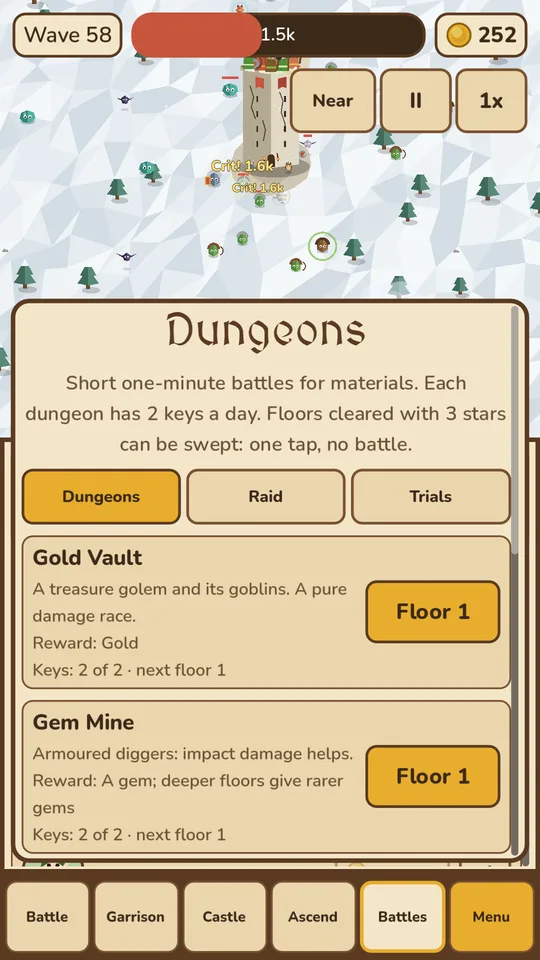
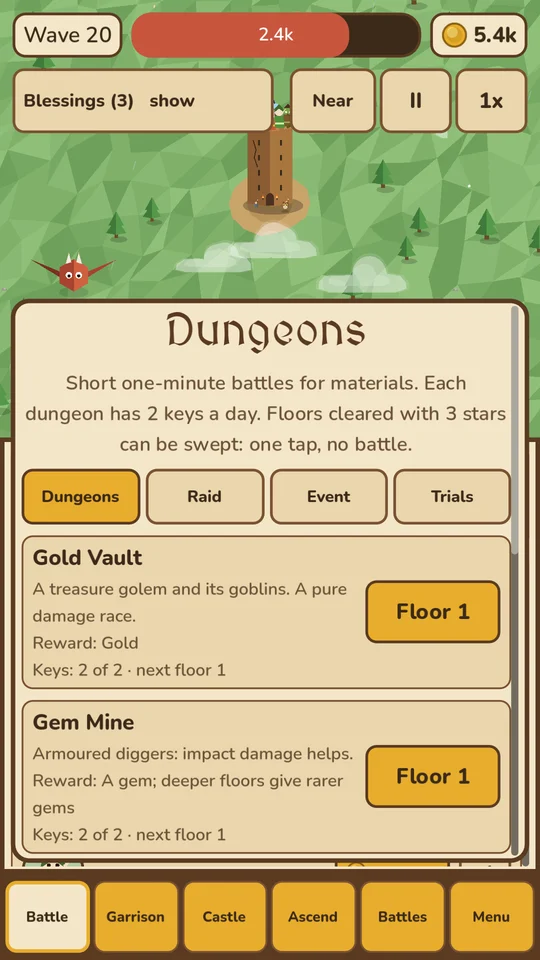
Join-the-test page (EN/NL), new screenshots, FAQ updates
Claude-Session: https://claude.ai/code/session_01N5ysr9ZVwFvCeQFm9LvqoQ

diff --git a/join.html b/join.html
@@ -1,0 +1,161 @@
+<!DOCTYPE html>
+<html lang="en">
+<head>
+<meta charset="utf-8">
+<meta name="viewport" content="width=device-width, initial-scale=1">
+<title>Join the test · The Little Keep</title>
+<meta name="description" content="Become a tester of The Little Keep on Google Play in three taps.">
+<link rel="icon" href="img/icon.webp" type="image/webp">
+<meta property="og:title" content="The Little Keep">
+<meta property="og:description" content="Become a tester of The Little Keep on Google Play in three taps.">
+<meta property="og:image" content="https://teddy312.github.io/thelittlekeep/img/feature.png">
+<link rel="preconnect" href="https://fonts.googleapis.com">
+<link href="https://fonts.googleapis.com/css2?family=MedievalSharp&family=Nunito:wght@400;600;800&display=swap" rel="stylesheet">
+<style>
+/* VOICE: warm, cozy, a little storybook; a small indie game's home on the web
+   IDEA: the game's own meadow seen from above, with a parchment notice board pinned beside it
+   PICTURE: a big drawn scene: the wooden keep on its island of earth, defenders on the walls, goblins marching in
+   COLOUR and TYPE: meadow green field, parchment cards, dark wood frames, gold buttons; MedievalSharp titles, Nunito text
+   LAYOUT: wood nav, hero (title + scene), features, screenshot scroller, how it plays, join the test, FAQ, footer; legal pages as separate views */
+:root{color-scheme:light dark;--grass:light-dark(#7fae5a,#2c4422);--grass2:light-dark(#6b9a49,#243a1c);--parch:light-dark(#f4e6c8,#2f2116);--parch2:light-dark(#ead6ad,#3a2a1c);--ink:light-dark(#3a2616,#f0e2c4);--muted:light-dark(#6b5238,#c9b48f);--wood:#5a3a22;--wood2:#3e2716;--gold:#e8ad2c;--line:light-dark(#d9c49c,#4a3524)}
+:root[data-theme=light]{color-scheme:light}:root[data-theme=dark]{color-scheme:dark}
+*{box-sizing:border-box;min-width:0}
+html{scroll-padding-top:84px;scroll-behavior:smooth}
+@media(prefers-reduced-motion:reduce){html{scroll-behavior:auto}}
+body{margin:0;background:var(--grass);color:var(--ink);font:16px/1.6 Nunito,system-ui,sans-serif;overflow-x:clip}
+a{color:inherit;text-decoration-color:var(--gold);text-decoration-thickness:2px;text-underline-offset:3px}
+a:focus-visible,button:focus-visible,summary:focus-visible{outline:3px solid var(--gold);outline-offset:3px}
+h1,h2,h3{font-family:MedievalSharp,Georgia,serif;font-weight:400;line-height:1.08;text-wrap:balance;margin:0}
+h1{font-size:clamp(40px,6vw,52px);color:#fff7e6;text-shadow:0 3px 0 var(--wood2),0 0 18px rgba(0,0,0,.25)}
+h2{font-size:clamp(32px,4vw,44px)}
+h3{font-size:24px}
+p{max-width:68ch}
+nav{position:sticky;top:0;z-index:5;background:var(--wood);border-bottom:4px solid var(--wood2);color:#f4e6c8}
+nav .in{max-width:1180px;margin:0 auto;display:flex;flex-wrap:wrap;align-items:center;gap:6px 18px;padding:10px max(4vw,14px)}
+nav .brand{display:flex;align-items:center;gap:10px;font-family:MedievalSharp,serif;font-size:24px;text-decoration:none;margin-right:auto}
+nav .brand img{width:40px;height:40px;border-radius:10px;border:2px solid var(--wood2)}
+nav .links{display:flex;flex-wrap:wrap;gap:4px 16px;font-weight:800;font-size:15px}
+nav .links a{text-decoration:none;padding:8px 2px;min-height:44px;display:inline-flex;align-items:center}
+nav .links a:hover{color:var(--gold)}
+.band{padding:clamp(36px,5vw,72px) max(4vw,14px)}
+.in{max-width:1180px;margin:0 auto}
+.hero{background:radial-gradient(120% 90% at 70% 40%,light-dark(#94c06c,#35532a),var(--grass2))}
+.hero .in{display:grid;grid-template-columns:minmax(0,5fr) minmax(0,6fr);gap:clamp(20px,4vw,56px);align-items:center}
+.hero p.lead{font-size:19px;color:light-dark(#20321a,#e6f0d6);font-weight:600;margin:16px 0 24px}
+.btns{display:flex;flex-wrap:wrap;gap:12px}
+.btn{display:inline-flex;align-items:center;justify-content:center;min-height:52px;padding:0 24px;border-radius:14px;border:3px solid var(--wood2);background:var(--gold);color:#2a1a0d;font-weight:800;font-size:17px;text-decoration:none;cursor:pointer;box-shadow:0 4px 0 var(--wood2);font-family:inherit}
+.btn.alt{background:var(--parch);color:var(--ink)}
+.btn:active{transform:translateY(3px);box-shadow:0 1px 0 var(--wood2)}
+.note{font-size:14px;color:light-dark(#2c3f22,#cfe0bd);margin-top:14px}
+.scene{width:100%;height:auto;display:block;filter:drop-shadow(0 18px 24px rgba(0,0,0,.25))}
+.card{background:var(--parch);border:4px solid var(--wood2);border-radius:20px;box-shadow:0 14px 30px rgba(0,0,0,.22)}
+.sheet{padding:clamp(22px,4vw,44px)}
+.sheet>h2{margin-bottom:6px}
+.sub{color:var(--muted);margin:6px 0 0}
+.feats{display:grid;grid-template-columns:repeat(4,minmax(0,1fr));gap:18px;margin-top:28px}
+.feat{background:var(--parch2);border:2px solid var(--line);border-radius:16px;padding:18px}
+.feat svg{width:64px;height:64px;display:block;margin-bottom:10px}
+.feat p{margin:6px 0 0;font-size:15px}
+.shots-wrap{position:relative;margin-top:26px}
+.shots{display:flex;gap:18px;overflow-x:auto;scroll-snap-type:x mandatory;padding:6px 4px 18px;scrollbar-width:thin}
+.shot{flex:none;width:min(260px,70vw);scroll-snap-align:start;margin:0}
+.shot img{width:100%;aspect-ratio:9/16;height:auto;display:block;border-radius:16px;border:4px solid var(--wood2);background:var(--parch2)}
+.shot figcaption{font-weight:800;text-align:center;margin-top:8px;color:#fff7e6;text-shadow:0 2px 0 var(--wood2)}
+.arrows{display:flex;gap:10px;justify-content:flex-end;margin-top:4px}
+.arrows button{width:52px;height:48px;padding:0;font-size:22px}
+.steps{display:grid;grid-template-columns:repeat(3,minmax(0,1fr));gap:18px;margin-top:26px}
+.step{position:relative;padding:20px 20px 20px 20px;border-radius:16px;background:var(--parch2);border:2px solid var(--line)}
+.step b{display:block;font-family:MedievalSharp,serif;font-size:24px;font-weight:400}
+.step p{margin:6px 0 0;font-size:15px}
+.join{display:grid;grid-template-columns:minmax(0,3fr) minmax(0,2fr);gap:28px;align-items:center}
+.mailbox{background:var(--parch2);border:2px dashed var(--wood);border-radius:16px;padding:20px;text-align:center}
+.mailbox .addr{font-size:22px;font-weight:800;overflow-wrap:anywhere;margin:6px 0 14px}
+ol{padding-left:1.3em}ol li{margin:6px 0}
+details{border-top:2px solid var(--line);padding:4px 0}
+details:last-child{border-bottom:2px solid var(--line)}
+summary{cursor:pointer;font-weight:800;font-size:17px;padding:12px 0;min-height:44px;list-style-position:outside}
+details p{margin:0 0 14px}
+footer{background:var(--wood);color:#f4e6c8;border-top:4px solid var(--wood2)}
+footer .in{display:flex;flex-wrap:wrap;gap:10px 24px;align-items:center;justify-content:space-between;padding:22px max(4vw,14px);font-size:15px}
+footer .fl{display:flex;flex-wrap:wrap;gap:6px 18px;font-weight:800}
+footer a{text-decoration:none;min-height:44px;display:inline-flex;align-items:center}
+footer a:hover{color:var(--gold)}
+.legal{max-width:860px;margin:0 auto}
+.legal .lang{display:flex;flex-wrap:wrap;gap:10px;margin:16px 0 4px}
+.legal .sum{margin-top:24px;padding:18px 20px;border-radius:14px;background:var(--parch2);border:2px solid var(--line)}
+.legal .sum p{margin:0 0 8px;font-weight:600}
+.legal h2{font-size:26px;margin:30px 0 8px}
+.legal ul{padding-left:1.2em;margin:8px 0}
+.legal section+section{margin-top:52px;padding-top:8px;border-top:2px dashed var(--line)}
+.mail{font-weight:800;white-space:nowrap}
+.view[hidden]{display:none}
+.toast{position:fixed;left:50%;bottom:24px;transform:translateX(-50%);background:var(--wood);color:#f4e6c8;padding:12px 20px;border-radius:12px;border:2px solid var(--wood2);font-weight:800;opacity:0;transition:opacity .2s;pointer-events:none}
+.toast.on{opacity:1}
+@keyframes march{from{transform:translateX(0)}to{transform:translateX(-26px)}}
+.gob{animation:march 2.4s ease-in-out infinite alternate}
+@media(prefers-reduced-motion:reduce){.gob{animation:none}}
+@media(max-width:900px){.feats{grid-template-columns:repeat(2,minmax(0,1fr))}.steps{grid-template-columns:1fr}.join{grid-template-columns:1fr}}
+@media(max-width:600px){.hero .in{grid-template-columns:1fr}.hero .scene{order:-1;max-width:460px;margin:0 auto}.feats{grid-template-columns:1fr}nav .brand{font-size:20px}}
+
+.jsteps{display:grid;gap:16px;margin-top:22px;counter-reset:st}
+.jstep{display:grid;grid-template-columns:64px minmax(0,1fr);gap:16px;align-items:start;background:var(--parch2);border:2px solid var(--line);border-radius:16px;padding:18px}
+.jstep .num{width:64px;height:64px;border-radius:50%;background:var(--gold);border:3px solid var(--wood2);display:flex;align-items:center;justify-content:center;font-family:MedievalSharp,serif;font-size:32px;color:#2a1a0d}
+.jstep h3{margin:4px 0 4px}
+.jstep p{margin:4px 0 12px}
+.jstep .btn{margin-top:2px}
+.tip{margin-top:22px;padding:16px 18px;border-radius:14px;border:2px dashed var(--wood);background:var(--parch2)}
+.tip p{margin:4px 0}
+#join-en,#join-nl{margin-top:0;padding-top:0;border-top:0}
+</style>
+</head>
+<body>
+<nav><div class="in">
+<a class="brand" href="index.html"><img src="img/icon.webp" alt="">The Little Keep</a>
+<div class="links"><a href="index.html#features">Features</a><a href="index.html#screens">Screenshots</a><a href="join.html">Join the test</a><a href="index.html#faq">FAQ</a></div>
+</div></nav>
+<div class="band"><div class="card sheet legal">
+<p><a href="index.html">&larr; The Little Keep</a></p>
+<div class="lang"><button class="btn" data-lang="en">English</button><button class="btn alt" data-lang="nl">Nederlands</button></div>
+
+<section id="join-en" lang="en">
+<h1 style="color:var(--ink);text-shadow:none;font-size:clamp(32px,5vw,44px)">Join the closed test</h1>
+<p class="sub">Play The Little Keep before anyone else. It takes about two minutes.</p>
+<div class="jsteps">
+<div class="jstep"><div class="num">1</div><div><h3>Join the tester group</h3><p>Open the group and tap <b>Join group</b>. Use the same Google account as on your Android phone.</p><a class="btn" data-link="group" href="#" target="_blank" rel="noopener">Open the tester group</a></div></div>
+<div class="jstep"><div class="num">2</div><div><h3>Become a tester</h3><p>Open the test page and tap <b>Become a tester</b>.</p><a class="btn" href="https://play.google.com/apps/testing/com.t3ddygames.littlekeep" target="_blank" rel="noopener">Become a tester</a></div></div>
+<div class="jstep"><div class="num">3</div><div><h3>Install the game</h3><p>Install The Little Keep from Google Play on your phone. If the page says the app can’t be found, wait a few minutes and try again.</p><a class="btn" href="https://play.google.com/store/apps/details?id=com.t3ddygames.littlekeep" target="_blank" rel="noopener">Open in Google Play</a></div></div>
+<div class="jstep"><div class="num">4</div><div><h3>Keep it for 14 days</h3><p>Google needs testers to keep the game installed for 14 days before it can be released. Open it now and then, and tell us what you think via <b>Menu → Send feedback</b>.</p></div></div>
+</div>
+<div class="tip"><p><b>Something not working?</b></p><p>“Item not found” usually means the Google account on your phone isn’t the one in the group, or it hasn’t updated yet. Check the account and try again a little later.</p><p>Still stuck? Email <a class="mail" href="mailto:berenpret@gmail.com?subject=The%20Little%20Keep%20tester">berenpret@gmail.com</a> with your Gmail address and we’ll add you by hand.</p></div>
+</section>
+<section id="join-nl" lang="nl" hidden>
+<h1 style="color:var(--ink);text-shadow:none;font-size:clamp(32px,5vw,44px)">Doe mee met de gesloten test</h1>
+<p class="sub">Speel The Little Keep vóór iedereen. Het duurt ongeveer twee minuten.</p>
+<div class="jsteps">
+<div class="jstep"><div class="num">1</div><div><h3>Word lid van de testersgroep</h3><p>Open de groep en tik op <b>Lid worden</b>. Gebruik hetzelfde Google-account als op je Android-telefoon.</p><a class="btn" data-link="group" href="#" target="_blank" rel="noopener">Open de testersgroep</a></div></div>
+<div class="jstep"><div class="num">2</div><div><h3>Word tester</h3><p>Open de testpagina en tik op <b>Tester worden</b>.</p><a class="btn" href="https://play.google.com/apps/testing/com.t3ddygames.littlekeep" target="_blank" rel="noopener">Tester worden</a></div></div>
+<div class="jstep"><div class="num">3</div><div><h3>Installeer de game</h3><p>Installeer The Little Keep via Google Play op je telefoon. Zegt de pagina dat de app niet gevonden kan worden? Wacht een paar minuten en probeer het opnieuw.</p><a class="btn" href="https://play.google.com/store/apps/details?id=com.t3ddygames.littlekeep" target="_blank" rel="noopener">Openen in Google Play</a></div></div>
+<div class="jstep"><div class="num">4</div><div><h3>Houd hem 14 dagen</h3><p>Google wil dat testers de game 14 dagen geïnstalleerd houden voordat hij uit mag komen. Open hem af en toe, en vertel ons wat je ervan vindt via <b>Menu → Feedback sturen</b>.</p></div></div>
+</div>
+<div class="tip"><p><b>Werkt er iets niet?</b></p><p>“Item niet gevonden” betekent meestal dat het Google-account op je telefoon niet het account in de groep is, of dat het nog niet is bijgewerkt. Controleer het account en probeer het later nog eens.</p><p>Kom je er niet uit? Mail <a class="mail" href="mailto:berenpret@gmail.com?subject=The%20Little%20Keep%20tester">berenpret@gmail.com</a> met je Gmail-adres, dan voegen we je met de hand toe.</p></div>
+</section>
+</div></div>
+<footer><div class="in">
+<div>&copy; 2026 T3ddy Games · The Little Keep</div>
+<div class="fl"><a href="privacy.html">Privacy policy</a><a href="terms.html">Terms of service</a><a href="mailto:berenpret@gmail.com">Contact</a></div>
+</div></footer>
+<script>
+{
+// The Google Group's address: the link testers open in step 1.
+const GROUP_URL='https://groups.google.com/g/the-little-keep-testers';
+for(const a of document.querySelectorAll('[data-link=group]'))a.href=GROUP_URL;
+const show=l=>{for(const x of ['en','nl']){document.getElementById('join-'+x).hidden=x!==l;}
+ for(const b of document.querySelectorAll('[data-lang]'))b.classList.toggle('alt',b.dataset.lang!==l);
+ document.documentElement.lang=l;};
+for(const b of document.querySelectorAll('[data-lang]'))b.addEventListener('click',()=>show(b.dataset.lang));
+const q=new URLSearchParams(location.search).get('lang');
+show(q==='nl'||q==='en'?q:((navigator.language||'').toLowerCase().startsWith('nl')?'nl':'en'));
+}
+</script>
+</body>
+</html>

diff --git a/index.html b/index.html
@@ -109,7 +109,7 @@ footer a:hover{color:var(--gold)}
 <div>
 <h1>One little keep. Endless waves.</h1>
 <p class="lead">A cozy idle defense game for Android. You don't build a maze of towers: you protect one small keep, train the defenders on its walls, and climb further every time you start over.</p>
-<div class="btns"><a class="btn" href="#join">Join the closed test</a><a class="btn alt" href="#screens">See screenshots</a></div>
+<div class="btns"><a class="btn" href="join.html">Join the closed test</a><a class="btn alt" href="#screens">See screenshots</a></div>
 <p class="note">Free to play · ads are always optional · English and Dutch</p>
 </div>
 <svg class="scene" viewBox="0 0 600 460" role="img" aria-label="The little wooden keep on its island of earth, defenders on the walls, goblins marching in">
@@ -155,7 +155,7 @@ footer a:hover{color:var(--gold)}
 <h2 style="color:#fff7e6;text-shadow:0 3px 0 var(--wood2)">A look inside</h2>
 <div class="shots-wrap">
 <div class="shots" id="shots">
-<figure class="shot"><img src="img/battle.webp" alt="A battle: the keep in the snow with defender upgrades below" loading="lazy" width="540" height="960"><figcaption>The battle</figcaption></figure>
+<figure class="shot"><img src="img/battle.webp" alt="A battle: a dragon flies at the keep, with defender upgrades below" loading="lazy" width="540" height="960"><figcaption>The battle</figcaption></figure>
 <figure class="shot"><img src="img/garrison.webp" alt="The Garrison screen with defenders on the walls" loading="lazy" width="540" height="960"><figcaption>Your Garrison</figcaption></figure>
 <figure class="shot"><img src="img/pets.webp" alt="The Pets screen with stars and skills" loading="lazy" width="540" height="960"><figcaption>Pets</figcaption></figure>
 <figure class="shot"><img src="img/menu.webp" alt="The Menu with everything in the game" loading="lazy" width="540" height="960"><figcaption>Everything in one menu</figcaption></figure>
@@ -179,27 +179,27 @@ footer a:hover{color:var(--gold)}
 <h2>Join the closed test</h2>
 <p>The Little Keep is in closed testing on Google Play before its public release. Testers play the full game for free and help shape it.</p>
 <ol>
-<li>Send the Gmail address you use on your Android phone to the address shown here.</li>
-<li>You'll get a link to become a tester. Open it and tap <b>Become a tester</b>.</li>
+<li>Join the tester group with the Google account on your Android phone.</li>
+<li>Open the test page and tap <b>Become a tester</b>.</li>
 <li>Install The Little Keep from Google Play and keep it installed for at least 14 days.</li>
 </ol>
 </div>
 <div class="mailbox">
-<div>Email us at</div>
-<div class="addr">berenpret@gmail.com</div>
-<div class="btns" style="justify-content:center"><button class="btn" id="copy">Copy address</button><a class="btn alt" href="mailto:berenpret@gmail.com?subject=The%20Little%20Keep%20tester">Open email</a></div>
+<div>Every step, with buttons</div>
+<div class="addr">Two minutes, three taps</div>
+<div class="btns" style="justify-content:center"><a class="btn" href="join.html">Join the test</a><a class="btn alt" href="join.html?lang=nl">Nederlands</a></div>
 </div>
 </div></section>
 
 <section class="band" id="faq" style="padding-top:0"><div class="in card sheet">
 <h2>Questions</h2>
 <div style="margin-top:16px">
-<details><summary>Is it free?</summary><p>Yes. The game is free to play. Ads only show when you choose to watch one for a reward, and the one optional purchase, "Ad-free rewards", gives those rewards without watching.</p></details>
+<details><summary>Is it free?</summary><p>Yes. The game is free to play. Ads only show when you choose to watch one for a reward. The Royal Shop has a few optional one-time purchases: "Ad-free rewards" gives those rewards without watching, and there's a Starter Pack and two cosmetic packs.</p></details>
 <details><summary>Do I need internet?</summary><p>No, you can play offline. Ads and cloud save need a connection when you use them.</p></details>
 <details><summary>Will my progress be saved?</summary><p>Progress is saved on your phone, and with Google Play Games sign-in it is also saved in the cloud, so you can continue on a new phone.</p></details>
 <details><summary>Is there an iPhone version?</summary><p>Not yet. The Little Keep is coming to Android first.</p></details>
 <details><summary>Which languages?</summary><p>English and Dutch.</p></details>
-<details><summary>I found a bug. Where do I report it?</summary><p>In the game, go to Settings, then Send feedback, and paste the report into an email to berenpret@gmail.com.</p></details>
+<details><summary>I found a bug. Where do I report it?</summary><p>In the game, open the Menu, then Send feedback, and tap Email report. It opens an email to berenpret@gmail.com with the details filled in.</p></details>
 </div>
 </div></section>
 </div>
